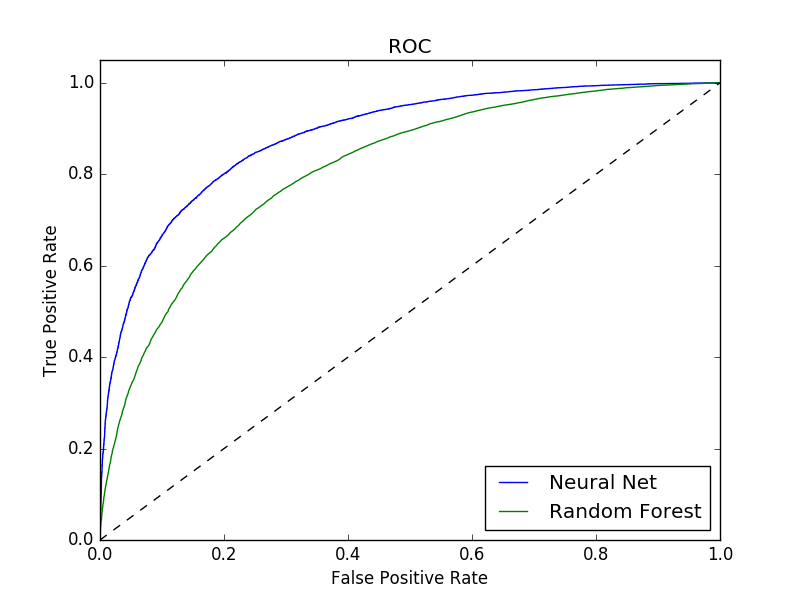
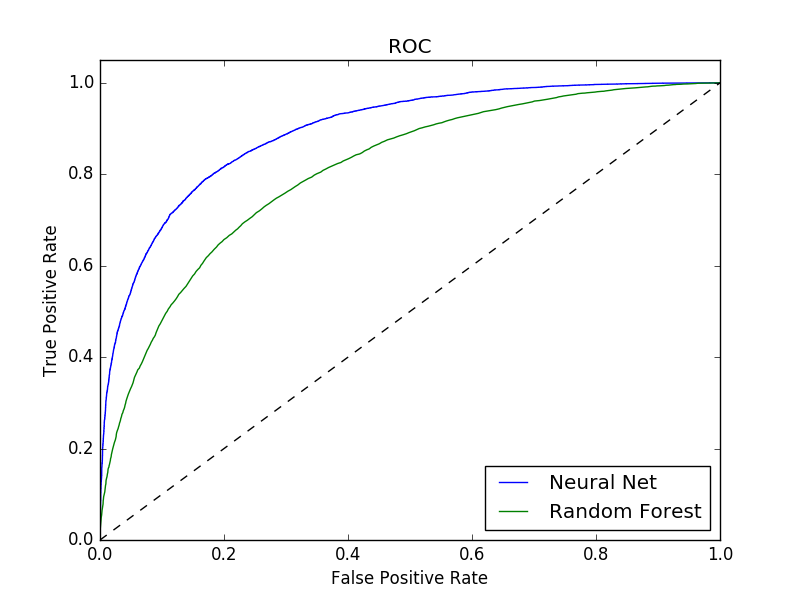
A simple update to the binary classification comparison script.

diff --git a/sandbox/compareNNtoRF.py b/sandbox/compareNNtoRF.py
@@ -1,6 +1,11 @@
 """
-Simple example comparing Random Forests to a Neural Network (MLP) in
-a binary classification problem.
+Binary Classification Example
+=============================
+
+A simple example comparing Random Forests to a Neural Network (MLP) using
+a fake binary classification data with 50 features. None of the models
+are optimised, they rather demonstrate the techniques than aim for an
+optimal performance.
 
 
 Dependencies
@@ -9,6 +14,7 @@ Dependencies
 :requires: matplotlib
 :requires: scikit-learn
 :requires: keras
+
 
 Author
 ------
@@ -29,13 +35,13 @@ from sklearn.datasets import make_classification
 from sklearn.ensemble import RandomForestClassifier
 from sklearn import metrics
 from keras.models import Sequential
-from keras.layers import Dense, Dropout, Activation
+from keras.layers import Dense, Dropout
 from keras.optimizers import SGD, RMSprop
 from keras.callbacks import EarlyStopping
 import keras.utils.visualize_util
 
 
-def testNN(X_train, X_test, y_train, y_test, hiddenSize=256, nepochs=1000, dropouts=0.5):
+def testNN(X_train, X_test, y_train, y_test, hiddenSize=256, nepochs=1000, dropouts=0.25):
     """
     Train a Neural Network with dropouts and predict test data.
 
